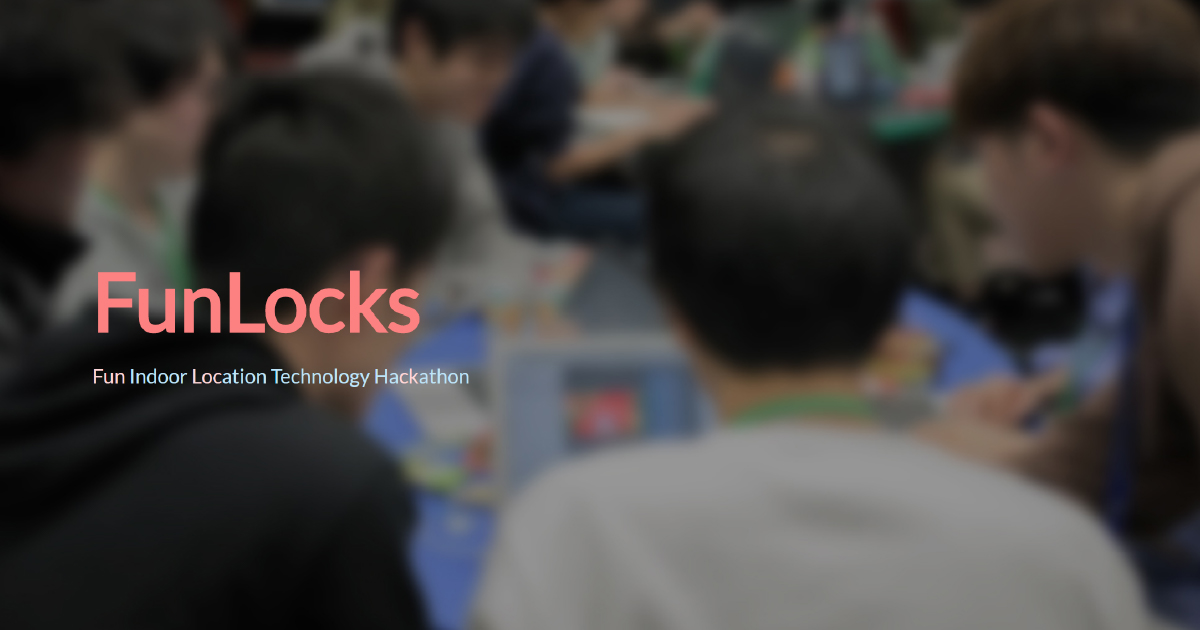
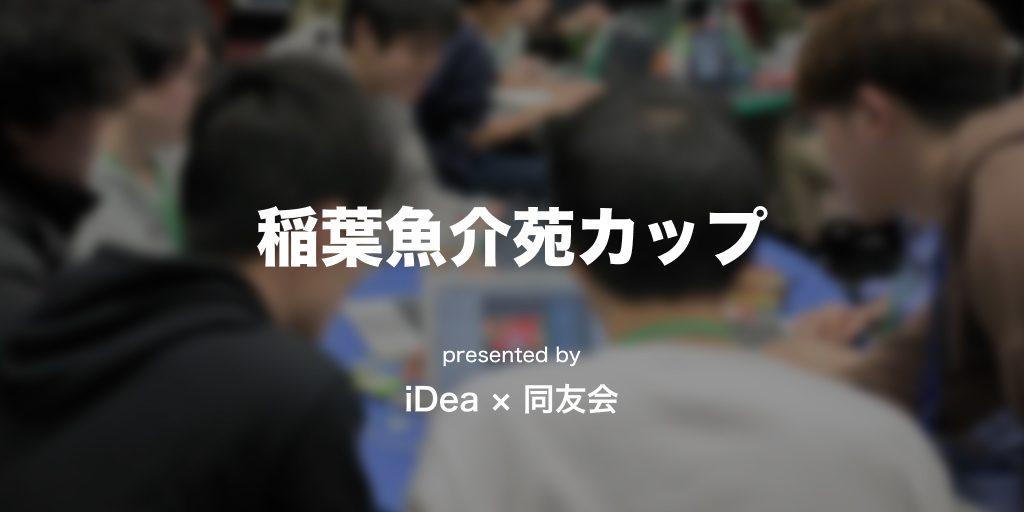
update

diff --git a/index.html b/index.html
@@ -8,7 +8,7 @@
     <meta property="og:title" content="idea" />
     <meta property="og:site_name" content="ideahackson" />
     <meta property="og:type" content="website" />
-    <meta property="og:description" content="Fun iDeaは公立はこだて未来大学の学生を対象としたハッカソンです。テーマは「コロナ禍に大学などで使いたいプロダクト」。ハッカソンに参加したことない人も、チーム開発未経験の人も、この機会に参加して、成長してみませんか？" />
+    <meta property="og:description" content="稲葉魚介苑カップは公立はこだて未来大学の学生を対象としたハッカソンです。テーマは「稲葉魚介苑のデジタル顧客管理革新」。この機会に参加して、企業の課題解決してみませんか？" />
     <meta property="og:image" content="https://ideahackson.github.io/img/ogp.jpg" />
     <meta name="twitter:card" content="summary_large_image" />
     <meta name="twitter:site" content="@ideahackson2020" />
@@ -25,7 +25,7 @@
   <body>
     <nav class="flex items-center justify-between flex-wrap bg-blue-500 p-6 fixed w-full top-0 z-50">
       <div class="flex items-center flex-shrink-0 text-white mr-6">
-        <a href="#top" class="font-semibold text-2xl">Fun iDea</a>
+        <a href="#top" class="font-semibold text-2xl">稲葉魚介苑カップ</a>
       </div>
       <div class="block md:hidden" id="menubutton">
         <button class="flex items-center px-3 py-2 border rounded text-blue-200 border-blue-400 hover:text-white hover:border-white transition duration-300">
@@ -47,49 +47,29 @@
             運営情報
           </a>
         </div>
-        <div>
+        <!-- <div>
           <a href="https://forms.gle/nLm8rXFUtmGvQfA27" target="_blank" rel="noopener" class="inline-block text-sm px-4 py-2 leading-none border rounded text-white border-white hover:border-transparent hover:text-blue-500 hover:bg-white mt-4 md:mt-0 transition duration-300">エントリー</a>
-        </div>
+        </div> -->
       </div>
     </nav>
     <section id="top" class="w-full relative">
       <div id="top-image" class="absolute inset-0 flex items-center justify-center">
         <div class="container w-4/5">
-          <h1 class="text-4xl sm:text-6xl lg:text-8xl font-bold text-red-400 text-center">Fun iDea</h1>
+          <h1 class="text-4xl sm:text-6xl lg:text-8xl mb-4 font-bold text-white text-center">稲葉魚介苑カップ</h1>
+          <h4 class="text-2xl sm:text-base lg:text-4xl font-bold text-white text-center">presented by</h4>
+          <h4 class="text-2xl sm:text-2xl lg:text-4xl font-bold text-white text-center">iDea × 同友会</h4>
         </div>
       </div>
     </section>
     <section id="introduction" class="w-full py-32 bg-white">
       <div class="container w-4/5 max-w-screen-md mx-auto">
-        <h1 class="text-4xl font-bold text-blue-500 mb-12">Fun iDeaとは</h1>
+        <h1 class="text-4xl font-bold text-blue-500 mb-12">稲葉魚介苑カップとは</h1>
         <h2 class="text-xl font-bold mb-4">公立はこだて未来大学の全学生を対象としたハッカソン</h2>
-        <p class="text-gray-700 leading-relaxed mb-12">ハッカソンとは、hack と marathon を組み合わせた造語で、短期間でプロダクトを実装し、 その成果物で競い合うイベントです。Fun iDeaは未来大生を対象としたハッカソンです。学部1, 2年生には、学部3年次に行われるプロジェクト学習に向けて、チーム開発を体験し楽しんでもらうことが目的です。学部3年生以上には、今までの経験を踏まえた力試しをしてもらい、チーム開発を楽しんでもらうことが目的です。<br>イベントの最後には、チームの表彰を行います。表彰されたチームには賞品を用意しています。</p>
+        <p class="text-gray-700 leading-relaxed mb-12">ハッカソンとは、hack と marathon を組み合わせた造語で、短期間でプロダクトを実装し、 その成果物で競い合うイベントです。Fun iDeaは未来大生を対象としたハッカソンです。<br>イベントの最後には、チームの表彰を行います。表彰されたチームには賞品を用意しています。</p>
         <h2 class="text-xl font-bold mb-4">テーマは「稲葉魚介苑のデジタル顧客管理革新」</h2>
-        <p class="text-gray-700 leading-relaxed mb-12">企業課題解決策を競うハッカソンです。</p>
-        <h2 class="text-xl font-bold mb-4">Fun iDeaの特徴</h2>
-        <ul class="text-gray-700 leading-relaxed mb-12 flex flex-wrap">
-          <li class="w-full sm:flex-1 px-4 min-w-40">
-            <svg class="fill-current text-blue-600" xmlns="http://www.w3.org/2000/svg" viewBox="0 0 400 280">
-              <defs><style>.cls-2{fill:none;}</style></defs><path d="M342.93,191.31v66.63a118.11,118.11,0,0,0-69.8-6.55c19-7.26,39.14-8.47,57.15-3a5.71,5.71,0,0,0,7.38-5.46V196.58l-6,6a16.17,16.17,0,0,1-5.44,3.57v29.45a94.35,94.35,0,0,0-19.61-2,101.32,101.32,0,0,0-18.6,1.73,113.44,113.44,0,0,0-36.1,13.65V138.23a88.77,88.77,0,0,1,38.64-8.1l10.7-10.7a100.41,100.41,0,0,0-55.06,8.86.24.24,0,0,1-.23,0,100.49,100.49,0,0,0-88.34,1.27,5.74,5.74,0,0,0-3.12,5.1V150.6a118.09,118.09,0,0,0-13.58,5.87,5.71,5.71,0,0,0-3.12,5.09V266.87a5.72,5.72,0,0,0,8.31,5.09,107.4,107.4,0,0,1,97.26,0,5.82,5.82,0,0,0,2.6.62h.22a5.74,5.74,0,0,0,2.59-.62,107.4,107.4,0,0,1,97.26,0,5.72,5.72,0,0,0,8.31-5.09v-87ZM194.75,248.85a119.27,119.27,0,0,0-45.51,9.09V165.13q2.61-1.23,5.27-2.3V243a5.72,5.72,0,0,0,7.39,5.46c18-5.5,38.17-4.29,57.14,3A118.68,118.68,0,0,0,194.75,248.85Zm45.5.09a113.35,113.35,0,0,0-36.1-13.65,101.32,101.32,0,0,0-18.6-1.73,94.42,94.42,0,0,0-19.61,2V138.23a89,89,0,0,1,74.31,0Z"/><path d="M273.71,209.18a5.43,5.43,0,0,1-5.24-6.83L281,155.71a5.46,5.46,0,0,1,1.4-2.43L356.6,79.05a5.42,5.42,0,0,1,7.67,0l34.14,34.14a5.42,5.42,0,0,1,0,7.67l-74.22,74.23a5.45,5.45,0,0,1-2.44,1.4L275.12,209a5.57,5.57,0,0,1-1.41.19Zm23.81-16.79,15.13-4-2.46-6.43-11.92-3-3-11.92-6.11-2.33-4.09,15.27Zm24.11-9.22L387.77,117l-3.65-3.65-64.51,64.5Zm-7.51-10.83,64.49-64.48-9-9L305,163.5l1.75,7ZM299.7,157.73l64.39-64.38-3.65-3.66-66,66Z"/><path d="M69.17,209.21h-.53a21.86,21.86,0,0,1-13.53-4.66l-.78-.65L6.75,154.53A19.8,19.8,0,0,1,0,139.74V27.58A20.1,20.1,0,0,1,13.14,8.91,22,22,0,0,1,34.55,12L68.91,38.38,103.28,12a22,22,0,0,1,21.39-3.08,20.1,20.1,0,0,1,13.14,18.67V139.74a19.8,19.8,0,0,1-6.75,14.79L83.39,204l-.69.56A21.86,21.86,0,0,1,69.17,209.21Zm-.26-4.08h.26a17.68,17.68,0,0,0,11-3.78l.48-.38,47.6-49.39.07-.06a15.72,15.72,0,0,0,5.42-11.78V27.58a16,16,0,0,0-10.54-14.87,18,18,0,0,0-17.41,2.5L68.91,43.52,32.05,15.22a18,18,0,0,0-17.43-2.51A16,16,0,0,0,4.08,27.58V139.74a15.71,15.71,0,0,0,5.43,11.78l.12.12L57.17,201l.48.38a17.7,17.7,0,0,0,11,3.78h.27Z"/><path d="M119.83,21.37a8.74,8.74,0,0,0-3.14-.59,8.39,8.39,0,0,0-5.21,1.77L68.91,55.23,26.33,22.55a8.37,8.37,0,0,0-5.21-1.77,8.74,8.74,0,0,0-3.14.59,6.82,6.82,0,0,0-4.61,6.21V139.74a6.44,6.44,0,0,0,2.54,5l47.52,49.31a8.36,8.36,0,0,0,5.21,1.76h.53a8.36,8.36,0,0,0,5.21-1.76l47.52-49.31a6.45,6.45,0,0,0,2.55-5V27.58A6.82,6.82,0,0,0,119.83,21.37Zm-52.5,163.7-44.9-46.6V31l44.9,34.48Z"/>
-            </svg>
-            <p class="mb-4 sm:mb-0">事前に初心者向けの勉強会があります。</p>
-          </li>
-          <li class="w-full sm:flex-1 px-4 min-w-40">
-            <svg class="fill-current text-blue-600" xmlns="http://www.w3.org/2000/svg" viewBox="0 0 400 280">
-              <defs><style>.cls-2{fill-rule:evenodd;}</style></defs><path d="M95.31,143.93A34.91,34.91,0,0,0,101,125c0-22.73-22.64-41.23-50.48-41.23S0,102.22,0,125s22.65,41.24,50.48,41.24c1.81,0,3.65-.08,5.48-.24h0c9,5.43,20.32,8.42,31.89,8.42,1.58,0,3.18-.06,4.77-.17a1.78,1.78,0,0,0,.75-3.32,34.67,34.67,0,0,1-13.14-12.61A45.37,45.37,0,0,0,95.31,143.93Zm-18.73,8.24-6,3.57,3.46,6.06a36.61,36.61,0,0,0,3,4.49,51.88,51.88,0,0,1-17.47-6.43l-2-1.2-2.31.21c-1.62.14-3.25.21-4.85.21-23.91,0-43.37-15.31-43.37-34.13S26.57,90.83,50.48,90.83,93.85,106.14,93.85,125C93.85,135.7,87.56,145.62,76.58,152.17Z"/><path class="cls-2" d="M47,136.34a1.09,1.09,0,0,1-1.09-1c0-.9,0-1.85,0-2.42,0-5.73,2.81-8.68,7-11.36,3.15-2.06,4.62-4.32,4.62-7.11,0-3.41-3.12-5.89-7.41-5.89a7.28,7.28,0,0,0-7.46,6.78,1.1,1.1,0,0,1-.42.74,1.11,1.11,0,0,1-.66.22h-.17l-6.39-1a1.1,1.1,0,0,1-.92-1.18,13.4,13.4,0,0,1,5-9.42A18.76,18.76,0,0,1,50.85,101a18.29,18.29,0,0,1,11.5,3.66,11.59,11.59,0,0,1,4.51,9.13,14.35,14.35,0,0,1-1.57,7A14.91,14.91,0,0,1,60.21,126l-.77.51c-3,2-4.9,3.25-4.9,6.61v.3c0,.49,0,1.15,0,1.78a1.16,1.16,0,0,1-.31.8,1.11,1.11,0,0,1-.79.33Z"/><path class="cls-2" d="M55.64,145.2a5.34,5.34,0,1,1-5.34-5.34A5.34,5.34,0,0,1,55.64,145.2Z"/><circle cx="143.21" cy="159.11" r="30.07" transform="translate(-27.22 288.64) rotate(-85.25)"/><path d="M189.31,256c-1.09-24.52,3.78-59.46-46.1-59.46S98.19,231.52,97.1,256Z"/><path d="M282.13,80.67v6.25a8.14,8.14,0,0,0,8.13,8.13h15.88a8.14,8.14,0,0,0,8.13-8.13v-.63h4.89v.63a8.15,8.15,0,0,0,8.14,8.13h15.87a8.15,8.15,0,0,0,8.14-8.13V80.67a8.15,8.15,0,0,0-8.14-8.14H327.3a8.15,8.15,0,0,0-8.06,7h-5.05a8.14,8.14,0,0,0-8.05-7H290.26A8.15,8.15,0,0,0,282.13,80.67Zm43.78,0a1.39,1.39,0,0,1,1.39-1.39h15.87a1.39,1.39,0,0,1,1.39,1.39v6.25a1.39,1.39,0,0,1-1.39,1.39H327.3a1.39,1.39,0,0,1-1.39-1.39Zm-37,0a1.38,1.38,0,0,1,1.38-1.39h15.88a1.39,1.39,0,0,1,1.39,1.39v6.25a1.4,1.4,0,0,1-1.39,1.39H290.26a1.39,1.39,0,0,1-1.38-1.39Z"/><polygon points="310.07 143.41 309.07 132.58 322.71 132.58 321.71 143.41 310.07 143.41"/><path d="M188.57,99a4.24,4.24,0,0,1,6,.4L232.68,143a14.52,14.52,0,0,1,17.42,3.51l14.16,16.39c7.35-13.2,17.15-23.52,28.42-29.56l15.87,42.38,1.52-28.55h11.64l1.52,28.55,15.87-42.38c24.93,13.37,42.66,47.64,42.66,87.8,0,1.29,0,33.34-.06,34.62H278.39l.28-65.69-4.18,4.47a14.48,14.48,0,0,1-10.6,4.62h-.28a14.48,14.48,0,0,1-10.7-5l-24.76-28.66a14.51,14.51,0,0,1-1.64-16.65L188.17,105A4.23,4.23,0,0,1,188.57,99Z"/><path d="M266.09,73.76a50.82,50.82,0,0,1,.5-7.07A49.81,49.81,0,0,1,315.89,24c1.36,0,2.76.06,4.16.17a49.82,49.82,0,0,1,45.64,49.63c0,.08,0,.45,0,.45a49.8,49.8,0,0,1-99.59-.45Zm72.25-20.67-1,.82a73.47,73.47,0,0,1-45.83,15.83,75.14,75.14,0,0,1-15.83-1.69l-1.57-.35-.17,1.61a41.47,41.47,0,0,0-.24,4.45,42.23,42.23,0,1,0,84.2-4.63l-.08-.75-.65-.36a74.28,74.28,0,0,1-17.88-14Z"/><path class="cls-2" d="M382,88.08c1.27-2.28,2.68-4.65,4.21-7s3.11-4.65,4.61-6.65c-1.47-2-3-4.14-4.51-6.51s-2.92-4.71-4.19-7c-1.28,2.33-2.72,4.74-4.28,7.16s-3,4.56-4.52,6.53c1.46,2,3,4.14,4.49,6.5S380.74,85.81,382,88.08Z"/><path class="cls-2" d="M393.91,97.46c.87-1.57,1.85-3.21,2.91-4.85S399,89.4,400,88c-1-1.35-2.06-2.87-3.11-4.5s-2-3.26-2.9-4.83c-.89,1.61-1.88,3.28-3,5s-2.1,3.15-3.12,4.51c1,1.35,2.06,2.86,3.11,4.49S393,95.89,393.91,97.46Z"/>
-            </svg>
-            <p class="mb-4 sm:mb-0">期間中に困ったことがあれば、メンターに相談できます。</p>
-          </li>
-          <li class="w-full sm:flex-1 px-4 min-w-40">
-            <svg class="fill-current stroke-current text-blue-600" xmlns="http://www.w3.org/2000/svg" viewBox="0 0 400 280">
-              <defs><style>.cls-2,.cls-4{fill:none;}.cls-2{stroke-miterlimit:10;stroke-width:8.1px;}.cls-3{fill:#fff;stroke-linecap:round;stroke-linejoin:round;stroke-width:10.08px;}</style></defs><rect x="73.31" y="156.23" width="30.77" height="29.18"/><rect x="121.6" y="156.23" width="30.77" height="29.18"/><rect x="169.89" y="156.23" width="30.77" height="29.18"/><rect x="218.18" y="156.23" width="30.77" height="29.18"/><path d="M297.24,160.67v-4.44H266.47l0,14A54.79,54.79,0,0,1,297.24,160.67Z"/><path d="M98,119.51v17.08H79.35V119.51H98m6-6.05H73.31v29.18h30.77V113.46Z"/><path d="M146.32,119.51v17.08H127.64V119.51h18.68m6.05-6.05H121.6v29.18h30.77V113.46Z"/><path  d="M194.61,119.51v17.08H175.93V119.51h18.68m6-6.05H169.89v29.18h30.77V113.46Z"/><path d="M242.9,119.51v17.08H224.22V119.51H242.9m6-6.05H218.18v29.18H249V113.46Z"/><path d="M146.32,205v17.09H127.64V205h18.68m6.05-6H121.6v29.17h30.77V199Z"/><path d="M194.61,205v17.09H175.93V205h18.68m6-6H169.89v29.17h30.77V199Z"/><path d="M97.84,205.25v17.08H79.16V205.25H97.84m6-6.05H73.12v29.18h30.77V199.2Z"/><path d="M290.84,119.25v17.08H272.16V119.25h18.68m6.05-6H266.12v29.18h30.77V113.2Z"/><path d="M245.08,199h-26.9v29.17H244a54.42,54.42,0,0,1-1.06-6H224.22V205H242.9Z"/><circle class="cls-2" cx="300.5" cy="218.67" r="50"/><polyline class="cls-3" points="301.5 188.67 301.5 221.91 286.8 241.58"/><path d="M300.78,42.27H269.6V66.79A3.15,3.15,0,0,1,266.44,70H241.72a3.15,3.15,0,0,1-3.16-3.16V42.27H132V66.79A3.16,3.16,0,0,1,128.83,70H104.1a3.16,3.16,0,0,1-3.16-3.16V42.27H69.76A21.2,21.2,0,0,0,48.59,63.44V232.53A21.2,21.2,0,0,0,69.76,253.7H244.5v-8.06H69.76a13.12,13.12,0,0,1-13.11-13.11V94.65H313.89v68H322V63.44A21.2,21.2,0,0,0,300.78,42.27Z"/><rect x="241.56" y="8.5" width="25.05" height="58.45" rx="2.7"/><rect x="103.94" y="8.5" width="25.05" height="58.45" rx="2.7"/>
-            </svg>
-            <p class="mb-4 sm:mb-0">開発期間は余裕のある1週間です。</p>
-          </li>
-        </ul>
+        <p class="text-gray-700 leading-relaxed mb-12">企業課題解決策を競うハッカソンです。参加企業が解決したい経営上の課題を提示します。学生が情報技術を活用して、解決策のアイデアを構想し、試作まで行います。その後、経営者や学識経験者らの審査によって、もっとも優れたアイデアが決定されます。</p>
         <h2 class="text-xl font-bold mb-4">注意事項</h1>
         <ul class="text-gray-700 leading-relaxed list-disc space-y-4">
-          <li>エントリーはチーム単位でのみ受け付けます（1チーム5名まで）。チームの代表の方がエントリーフォームにご入力ください。</li>
           <li>最終的な成果物はGitHub上のリポジトリに提出していただきます。提出されない場合、審査の対象とならない可能性があります。GitHubの使い方がわからない場合は、事前に勉強会か独自の方法で学習してください。</li>
           <li>連絡なしに開会式や発表会/閉会式を欠席した場合は、審査の対象とならない可能性があります。</li>
         </ul>
@@ -105,34 +85,42 @@
               <h2 class="text-xl font-bold mb-4">開会式</h3>
               <table class="text-gray-700 leading-relaxed text-sm">
                 <tr>
-                  <td>12:30</td>
-                  <td>受付開始</td>
+                  <td>10:00〜</td>
+                  <td>オープニング</td>
                 </tr>
                 <tr>
-                  <td class="pr-4">13:00 - 13:30</td>
-                  <td>開会式</td>
+                  <td class="pr-4">10:05 - 10:20</td>
+                  <td>稲葉魚介苑からインプット</td>
                 </tr>
                 <tr>
-                  <td>13:30 - 14:40</td>
-                  <td>企業紹介のコーナー</td>
+                  <td>10:20 - 10:50</td>
+                  <td>「経営課題を技術で解決」プレゼン</td>
                 </tr>
                 <tr>
-                  <td>14:40 - 16:00</td>
-                  <td>アイディア出し&相談会</td>
+                  <td>10:50 - 11:00</td>
+                  <td>評価軸の説明</td>
                 </tr>
                 <tr>
-                  <td>16:00 - 16:30</td>
-                  <td>進捗報告</td>
+                  <td>11:00 - 11:10</td>
+                  <td>休憩</td>
                 </tr>
                 <tr>
-                  <td>16:30</td>
+                  <td>11:10 - 11:30</td>
+                  <td>パネルディスカッション</td>
+                </tr>
+                <tr>
+                  <td>11:30 - 12:00</td>
+                  <td>質疑応答</td>
+                </tr>
+                <tr>
+                  <td>12:00〜</td>
                   <td>クロージング</td>
                 </tr>
               </table>
             </div>
           </li>
           <li class="md:flex md:w-full md:relative">
-            <p class="timeline-date text-lg text-blue-700 mb-2 md:w-40 md:mr-4">8月5日（月）～　　　8月8日（木）</p>
+            <p class="timeline-date text-lg text-blue-700 mb-2 md:w-40 md:mr-4">8月5日（月）～　　　8月7日（水）</p>
             <div class="timeline-content pb-10 md:flex-1 md:pl-8 md:border-l-4 md:border-blue-300">
               <h2 class="text-xl font-bold mb-4">開発期間</h3>
               <p class="text-gray-700 leading-relaxed text-sm"></p>
@@ -144,36 +132,20 @@
               <h2 class="text-xl font-bold mb-4">発表会/閉会式</h3>
               <table class="text-gray-700 leading-relaxed text-sm">
                 <tr>
-                  <td>10:30</td>
-                  <td>受付開始</td>
+                  <td>15:00〜</td>
+                  <td>各チームプレゼン(1チーム20分)</td>
                 </tr>
                 <tr>
-                  <td class="pr-4">11:00 - 11:30</td>
-                  <td>オープニング / 発表順決め</td>
+                  <td class="pr-4">16:30 - 17:00</td>
+                  <td>審査員検討時間、学生休憩</td>
                 </tr>
                 <tr>
-                  <td>11:30</td>
-                  <td>README提出 / コードフリーズ</td>
+                  <td>17:00 - 17:30</td>
+                  <td>優勝者等発表＆写真撮影</td>
                 </tr>
                 <tr>
-                  <td>11:30 - 12:40</td>
-                  <td>お昼休み&発表準備</td>
-                </tr>
-                <tr>
-                  <td>13:00 - 15:00</td>
-                  <td>発表</td>
-                </tr>
-                <tr>
-                  <td>15:00 - 15:15</td>
-                  <td>投票 / アンケート記入 / 休憩</td>
-                </tr>
-                <tr>
-                  <td>15:30 - 17:00</td>
-                  <td>結果発表 / 閉会式</td>
-                </tr>
-                <tr>
-                  <td>17:00 - 18:00</td>
-                  <td>交流会</td>
+                  <td>17:30 - 18:00</td>
+                  <td>片付け</td>
                 </tr>
               </table>
             </div>
@@ -189,11 +161,7 @@
       <div class="container w-4/5 max-w-screen-md mx-auto">
         <h1 class="text-4xl font-bold text-blue-500 mb-12">受賞チーム一覧</h1>
         <h2 class="text-xl font-bold mb-4">最優秀賞</h2>
-        <!-- <p class="text-gray-700 leading-relaxed mb-4">もちょこい</p>
-        <img src="img/DSC06113.JPG" alt="もちょこいの皆さん" class="mb-8"> -->
         <h2 class="text-xl font-bold mb-4">優秀賞</h2>
-        <!-- <p class="text-gray-700 leading-relaxed mb-4">下宿</p>
-        <img src="img/DSC06124.JPG" alt="下宿の皆さん" class="mb-8"> -->
         <h2 class="text-xl font-bold mb-4">企業賞</h2>
       </div>
     </section>
@@ -203,6 +171,7 @@
         <div class="w-full mb-8 bg-white p-4">
           <h2 class="text-xl font-bold mb-4">協賛</h2>
           <ul class="sponsors">
+            <li>(有)稲場魚介苑(函館朝市の水産小売店)</li>
             <!-- <li class="flex items-center justify-center">
               <img src="img/CyberAgent.png" class="block object-contain w-full">
             </li> -->
@@ -218,6 +187,8 @@
         <div class="w-full mb-16 bg-white p-4">
           <h2 class="text-xl font-bold mb-4">協力</h2>
           <ul class="text-gray-700 leading-relaxed space-y-2">
+            <li>一般社団法人北海道中小企業家同友会函館支部政策委員会</li>
+            <li><h3>道南みらい創造委員会</h3></li>
             <!-- <li><a href="https://codeforhakodate.org/" target="_blank" rel="noopener" class="underline">Code for Hakodate</a></li> -->
           </ul>
         </div>
